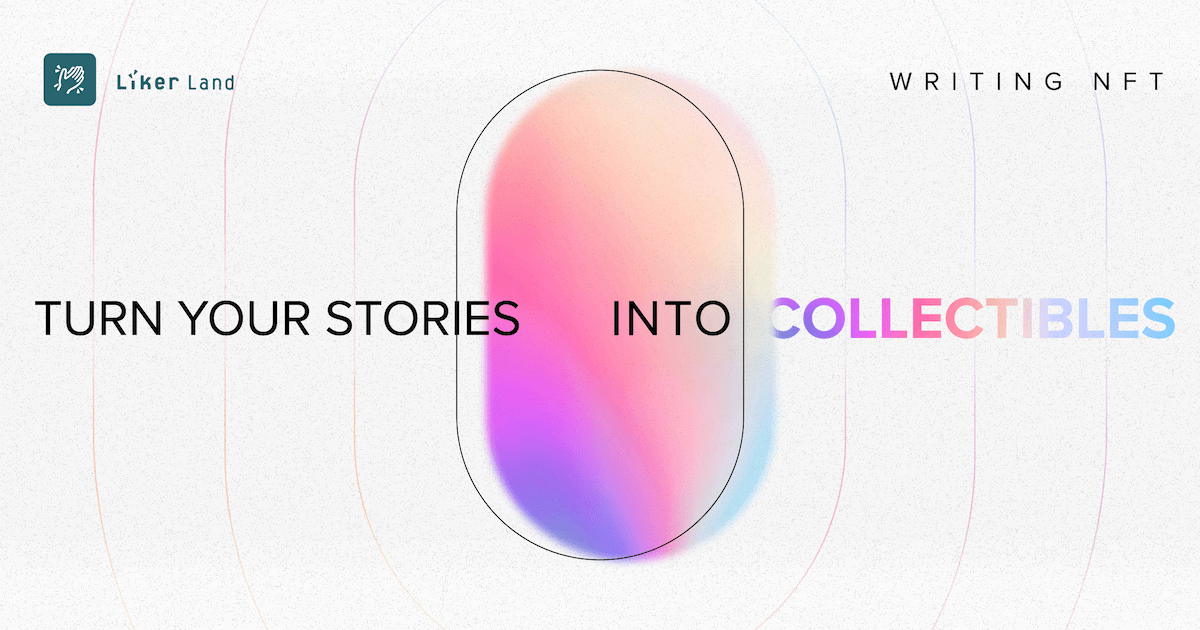
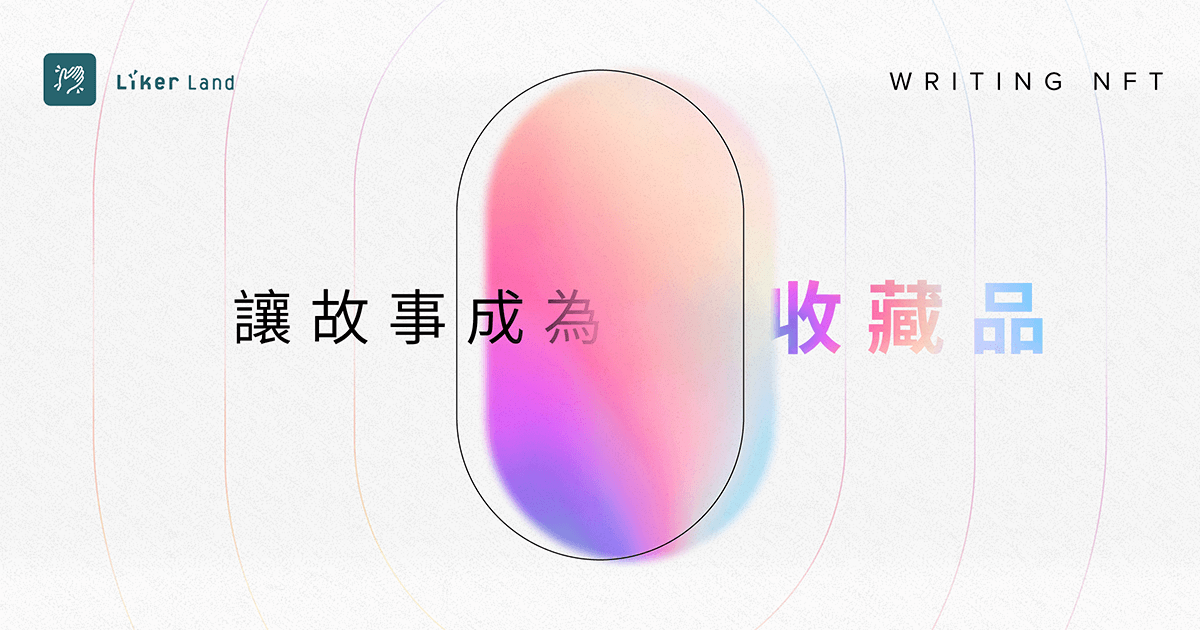
📈 Update and localize OG image

diff --git a/src/layouts/default.vue b/src/layouts/default.vue
@@ -86,6 +86,8 @@
 <script>
 import { mapActions, mapGetters } from 'vuex';
 
+import { EXTERNAL_HOST } from '~/constant';
+
 import alertMixin from '~/mixins/alert';
 import inAppMixin from '~/mixins/in-app';
 import { logTrackerEvent } from '~/util/EventLogger';
@@ -101,7 +103,16 @@ export default {
       bodyAttrs: {
         class: ['bg-gray-f7'],
       },
-      meta: [...i18nHead.meta],
+      meta: [
+        ...i18nHead.meta,
+        {
+          hid: 'og:image',
+          property: 'og:image',
+          content: `${EXTERNAL_HOST}/images/og/${
+            this.$i18n.locale === 'en' ? 'default-en.png' : 'default.png'
+          }`,
+        },
+      ],
       link: [...i18nHead.link],
     };
   },

diff --git a/src/pages/nft/class/_classId/_nftId.vue b/src/pages/nft/class/_classId/_nftId.vue
@@ -393,7 +393,10 @@ export default {
     const description =
       this.nftDescription || this.$t('nft_details_page_description');
     const ogImage =
-      this.nftImageURL || 'https://liker.land/images/og/default.png';
+      this.NFTImageUrl ||
+      `${EXTERNAL_HOST}/images/og/${
+        this.$i18n.locale === 'en' ? 'default-en.png' : 'default.png'
+      }`;
     const schemas = [];
     if (this.purchaseInfo.price) {
       schemas.push({

diff --git a/src/pages/nft/class/_classId/index.vue b/src/pages/nft/class/_classId/index.vue
@@ -362,7 +362,10 @@ export default {
     const description =
       this.NFTDescription || this.$t('nft_details_page_description');
     const ogImage =
-      this.NFTImageUrl || 'https://liker.land/images/og/default.png';
+      this.NFTImageUrl ||
+      `${EXTERNAL_HOST}/images/og/${
+        this.$i18n.locale === 'en' ? 'default-en.png' : 'default.png'
+      }`;
     const schemas = [];
     if (this.purchaseInfo.price) {
       schemas.push({

diff --git a/src/pages/getapp.vue b/src/pages/getapp.vue
@@ -40,11 +40,6 @@ export default {
           property: 'og:description',
           content: this.$t('GetAppPage.Og.Description'),
         },
-        {
-          hid: 'og:image',
-          property: 'og:image',
-          content: 'https://liker.land/images/og/default.png',
-        },
       ],
     };
   },

diff --git a/src/pages/writing-nft/about.vue b/src/pages/writing-nft/about.vue
@@ -40,11 +40,6 @@ export default {
           property: 'og:description',
           content: description,
         },
-        {
-          hid: 'og:image',
-          property: 'og:image',
-          content: 'https://liker.land/images/og/default.png',
-        },
       ],
       script: [
         {

diff --git a/src/pages/store.vue b/src/pages/store.vue
@@ -211,11 +211,6 @@ export default {
           property: 'og:description',
           content: description,
         },
-        {
-          hid: 'og:image',
-          property: 'og:image',
-          content: 'https://liker.land/images/og/default.png',
-        },
       ],
       link,
     };

diff --git a/src/pages/dashboard/index.vue b/src/pages/dashboard/index.vue
@@ -178,11 +178,6 @@ export default {
           property: 'og:description',
           content: description,
         },
-        {
-          hid: 'og:image',
-          property: 'og:image',
-          content: 'https://liker.land/images/og/default.png',
-        },
       ],
     };
   },

diff --git a/src/nuxt.config.js b/src/nuxt.config.js
@@ -62,7 +62,7 @@ const nuxtConfig = {
         hid: 'og:image',
         name: 'og:image',
         property: 'og:image',
-        content: '/images/og/default.png',
+        content: `${EXTERNAL_URL}/images/og/default.png`,
       },
     ],
     link: [
